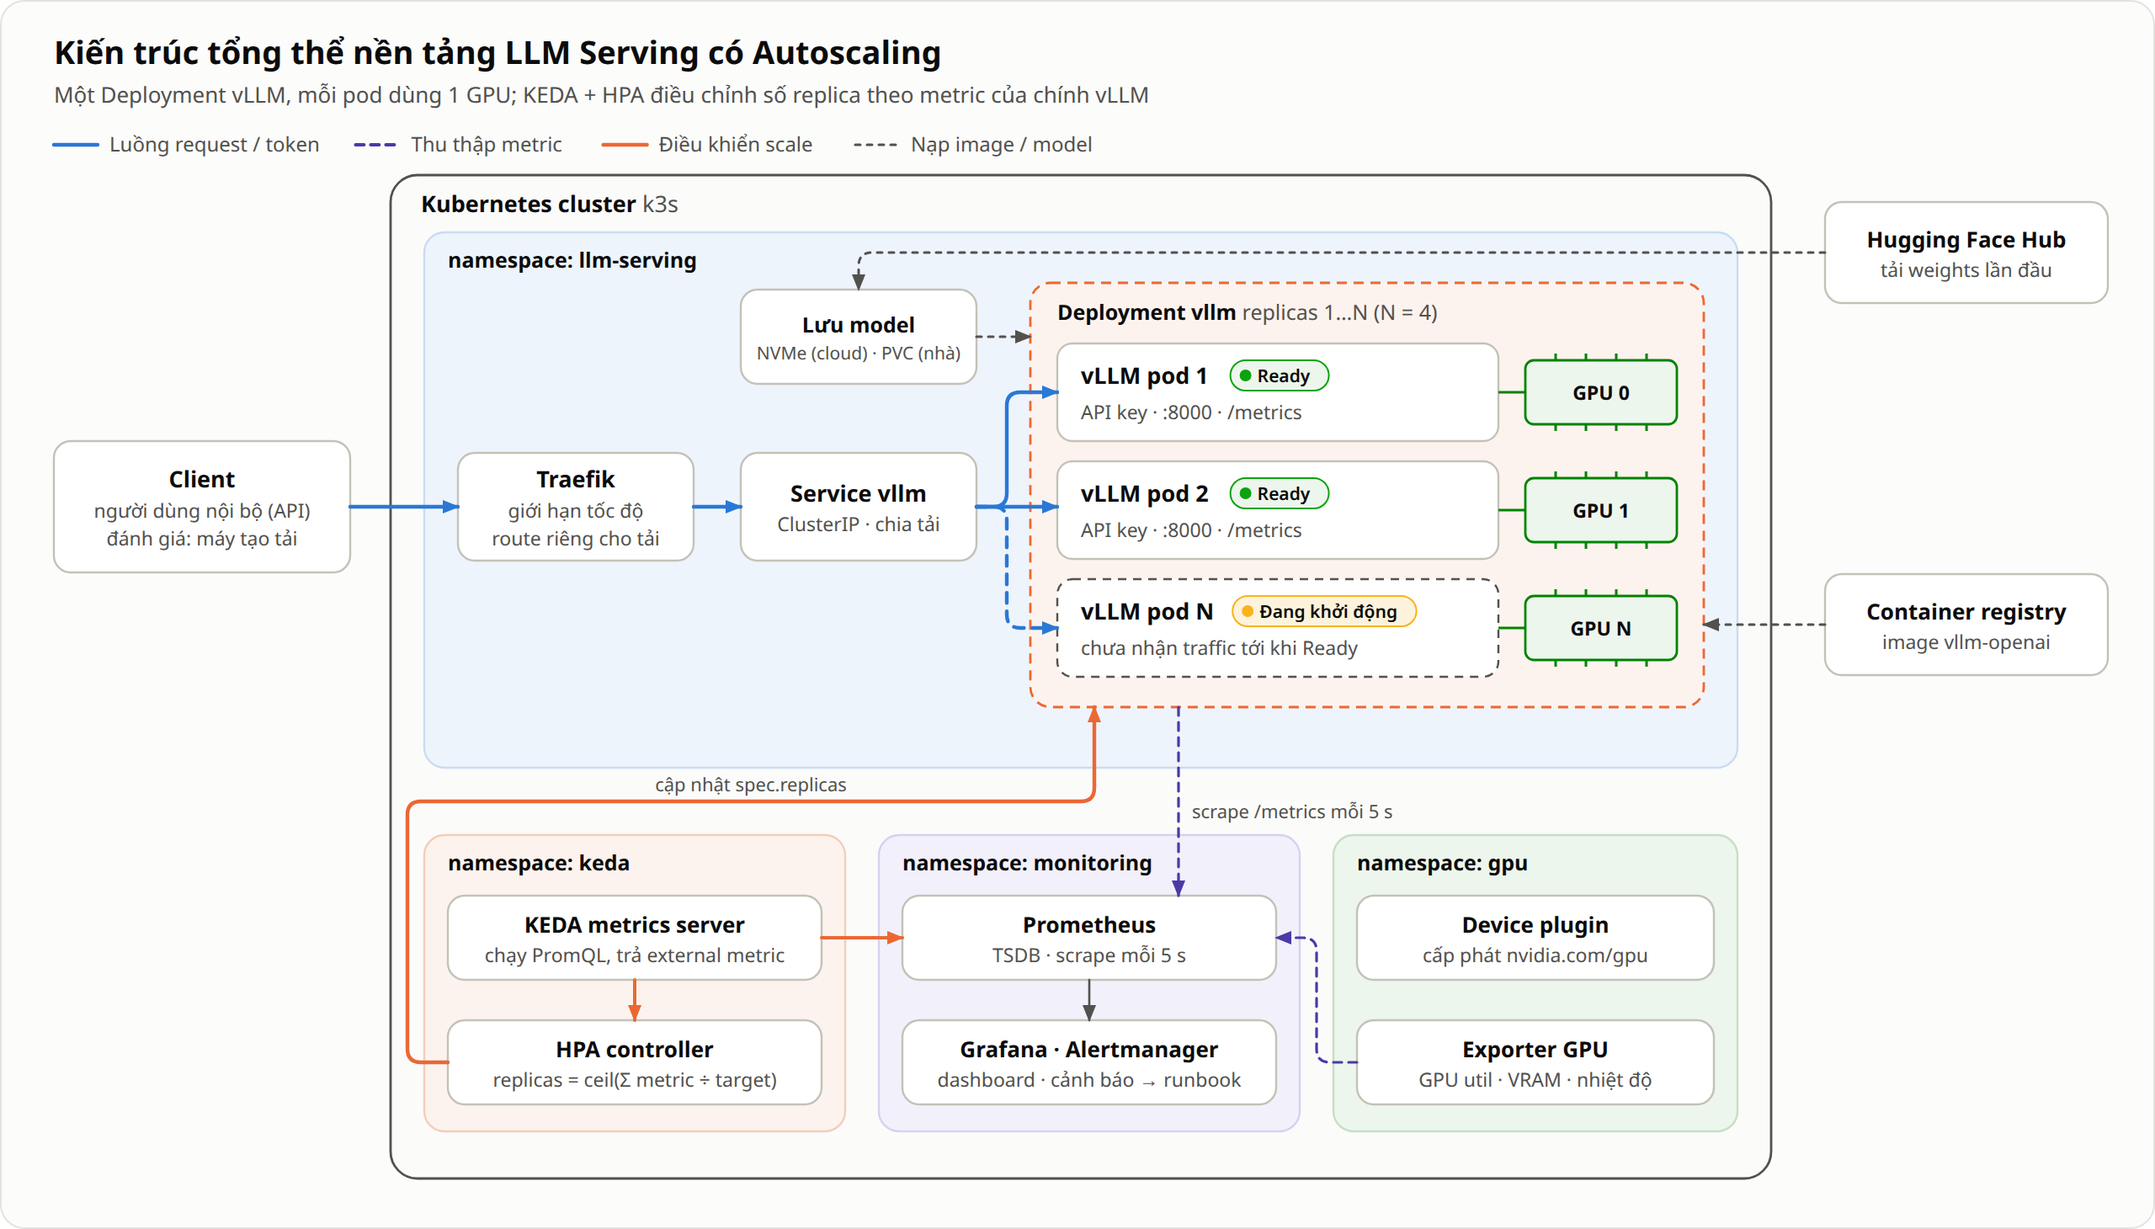
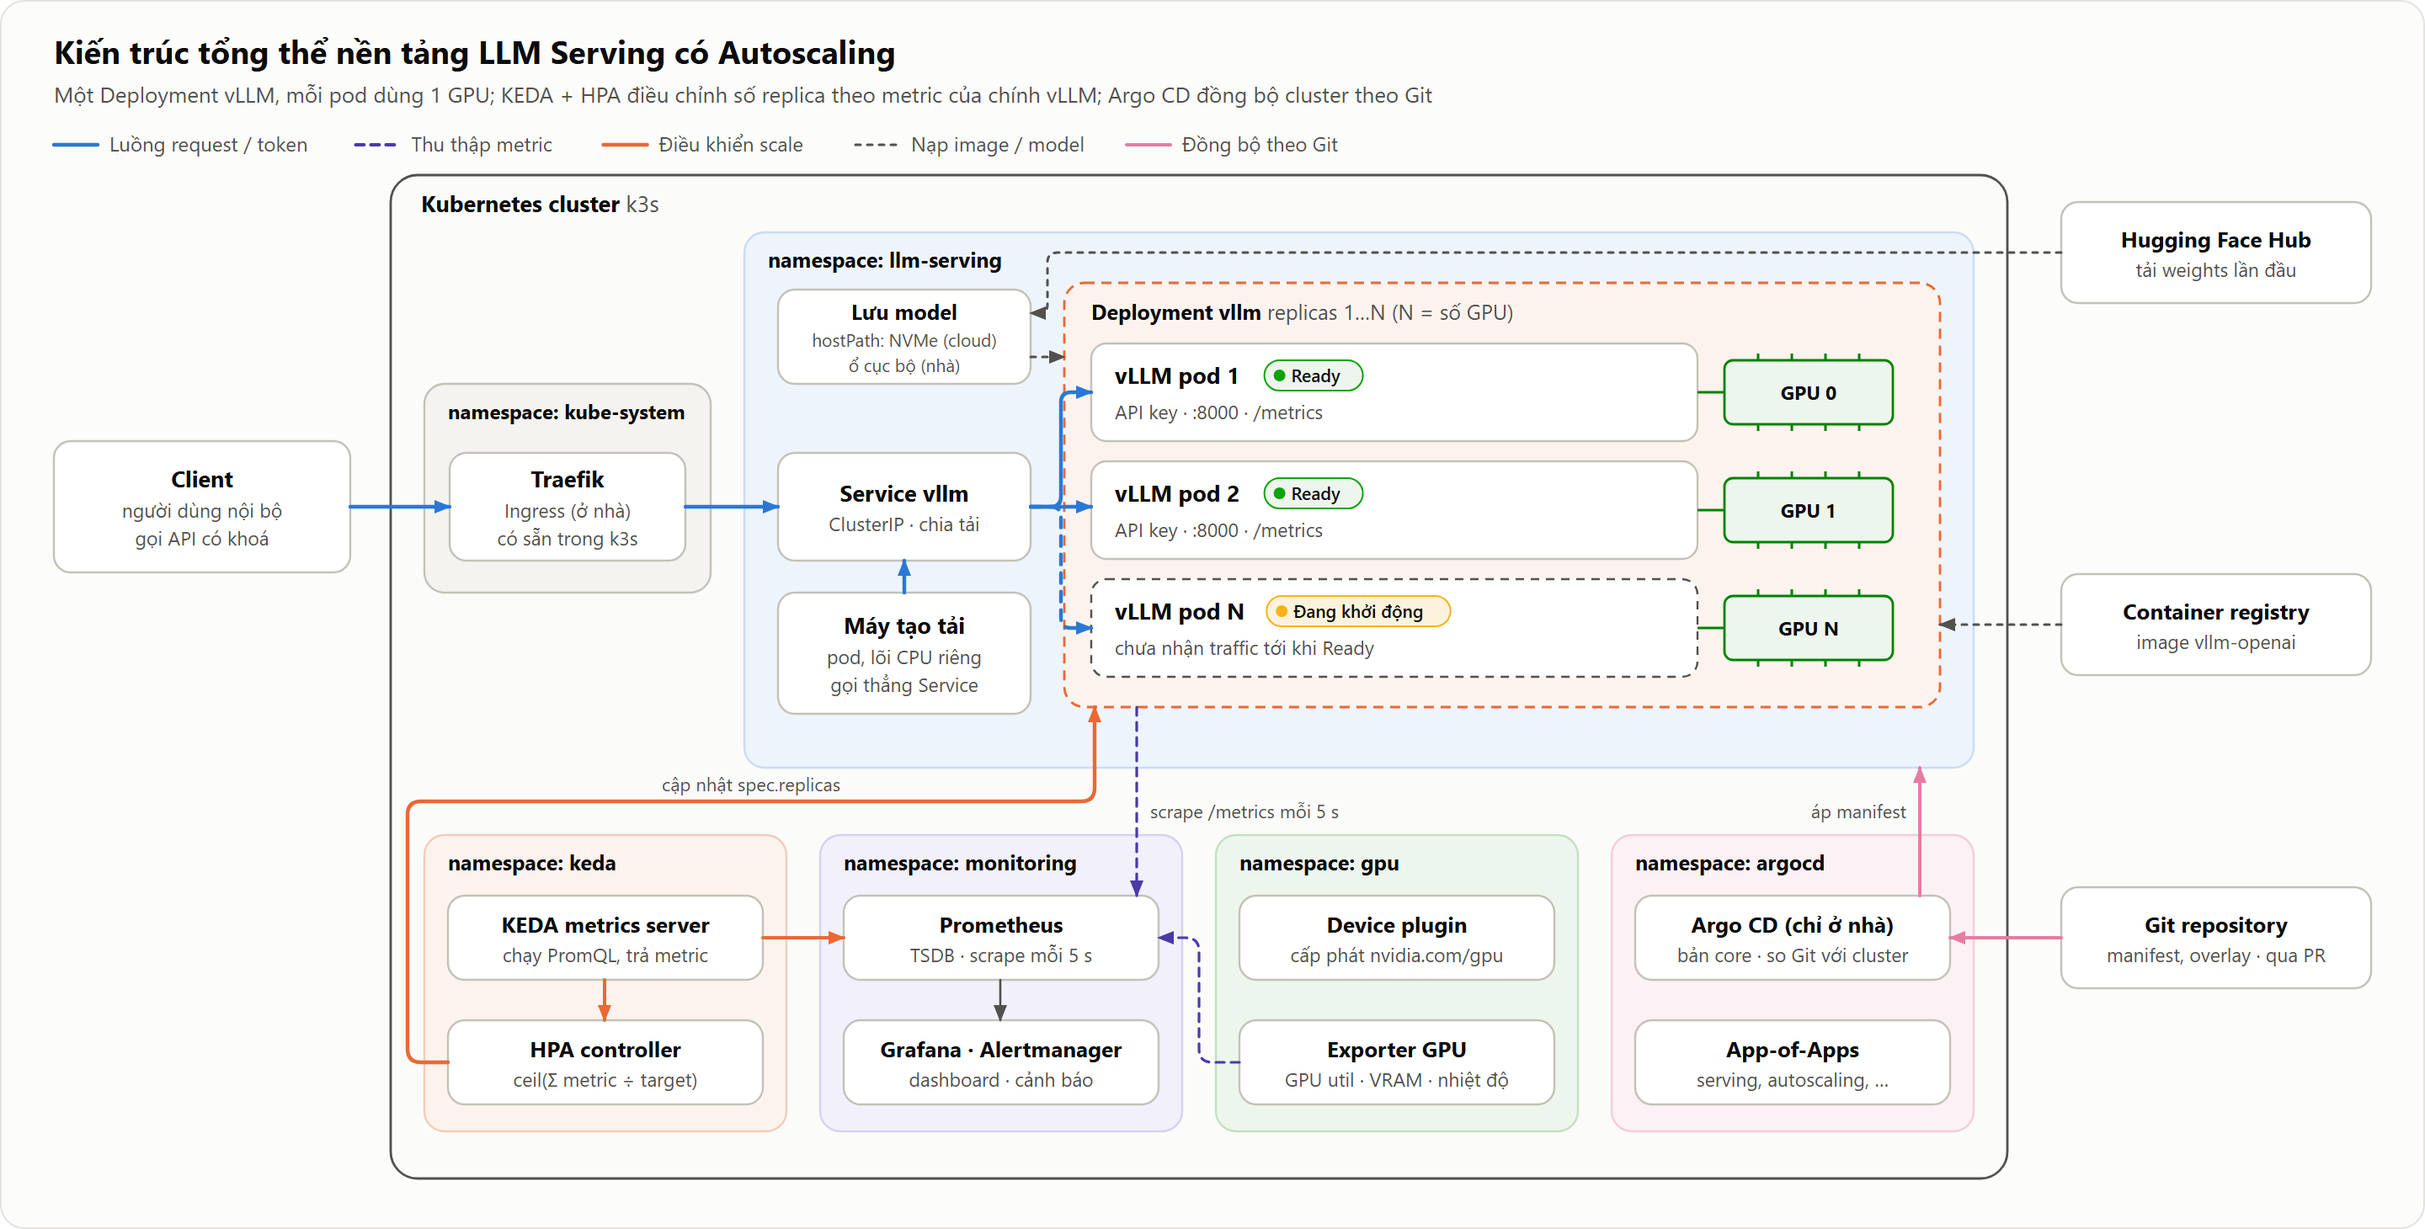
docs: redraw figure 2 for the current design: Traefik in kube-system without rate limit, load generator calling the Service, Argo CD and Git (TR8)

diff --git a/docs/diagrams/build_diagrams.py b/docs/diagrams/build_diagrams.py
@@ -306,81 +306,97 @@ def fig_tradeoff():
 # Hình 2 — Kiến trúc tổng thể
 # ======================================================================
 def fig_architecture():
-    W, H = 1280, 730
-    s = Svg(W, H, "Kiến trúc tổng thể: client gửi request qua Traefik và Service tới các pod vLLM "
-                  "(mỗi pod 1 GPU, kiểm API key); Prometheus thu metric, Alertmanager gửi cảnh báo; "
-                  "KEDA và HPA điều chỉnh số replica")
+    W, H = 1440, 730
+    s = Svg(W, H, "Kiến trúc tổng thể: người dùng gọi API qua Traefik, máy tạo tải gọi thẳng Service, "
+                  "Service chia request cho các pod vLLM (mỗi pod 1 GPU, kiểm API key); Prometheus thu metric, "
+                  "Alertmanager gửi cảnh báo; KEDA và HPA điều chỉnh số replica; Argo CD đồng bộ cluster theo Git")
     s.header("Kiến trúc tổng thể nền tảng LLM Serving có Autoscaling",
-             "Một Deployment vLLM, mỗi pod dùng 1 GPU; KEDA + HPA điều chỉnh số replica theo metric của chính vLLM")
+             "Một Deployment vLLM, mỗi pod dùng 1 GPU; KEDA + HPA điều chỉnh số replica theo metric của chính vLLM; "
+             "Argo CD đồng bộ cluster theo Git")
     x = 32
     x = s.legend_line(x, 86, "Luồng request / token", BLUE, sw=2.2)
     x = s.legend_line(x, 86, "Thu thập metric", VIOLET, dash="5 4")
     x = s.legend_line(x, 86, "Điều khiển scale", ORANGE, sw=2.2)
-    s.legend_line(x, 86, "Nạp image / model", INK2, dash="3 4", sw=1.5)
+    x = s.legend_line(x, 86, "Nạp image / model", INK2, dash="3 4", sw=1.5)
+    s.legend_line(x, 86, "Đồng bộ theo Git", MAGENTA, sw=2)
 
     # cụm Kubernetes
-    s.rect(232, 104, 820, 596, fill="#fbfbfa", stroke=INK2, sw=1.4, rx=16)
+    s.rect(232, 104, 960, 596, fill="#fbfbfa", stroke=INK2, sw=1.4, rx=16)
     s.rich(250, 126, [("Kubernetes cluster", 700, INK), ("  k3s", 400, INK2)], size=13.5)
 
-    # namespace llm-serving
-    s.group(252, 138, 780, 318, "namespace: llm-serving", fill=BLUE_T, stroke="#c9dcf3")
-    s.box(272, 269, 140, 64, "Traefik", ["giới hạn tốc độ", "route riêng cho tải"])
-    s.box(440, 269, 140, 64, "Service vllm", ["ClusterIP · chia tải"])
-    s.box(440, 172, 140, 56, "Lưu model", ["NVMe (cloud) · PVC (nhà)"], tsize=12.5, lsize=10.5)
+    # namespace kube-system: Traefik có sẵn trong k3s; Ingress llm.home chỉ có ở overlay nhà.
+    # Rate limit và route riêng cho máy tạo tải đã lược ngày 12/11 (ADR-006 §3.1).
+    s.group(252, 228, 170, 124, "namespace: kube-system", fill=GRAY_T, stroke=AXIS, tsize=12)
+    s.box(267, 269, 140, 64, "Traefik", ["Ingress (ở nhà)", "có sẵn trong k3s"])
 
-    s.rect(612, 168, 400, 252, fill=ORANGE_T, stroke=ORANGE, sw=1.4, dash="6 4", rx=12)
-    s.rich(628, 190, [("Deployment vllm", 650, INK), ("  replicas 1…N (N = 4)", 400, INK2)], size=12.5)
+    # namespace llm-serving
+    s.group(442, 138, 730, 318, "namespace: llm-serving", fill=BLUE_T, stroke="#c9dcf3")
+    s.box(462, 172, 150, 56, "Lưu model", ["hostPath: NVMe (cloud)", "ổ cục bộ (nhà)"], tsize=12.5, lsize=10.5)
+    s.box(462, 269, 150, 64, "Service vllm", ["ClusterIP · chia tải"])
+    s.box(462, 352, 150, 72, "Máy tạo tải", ["pod, lõi CPU riêng", "gọi thẳng Service"])
+
+    s.rect(632, 168, 520, 252, fill=ORANGE_T, stroke=ORANGE, sw=1.4, dash="6 4", rx=12)
+    s.rich(648, 190, [("Deployment vllm", 650, INK), ("  replicas 1…N (N = số GPU)", 400, INK2)], size=12.5)
     pods = [("vLLM pod 1", "Ready", "API key · :8000 · /metrics"),
             ("vLLM pod 2", "Ready", "API key · :8000 · /metrics"),
             ("vLLM pod N", "Đang khởi động", "chưa nhận traffic tới khi Ready")]
     for k, (name, st, sub) in enumerate(pods):
         py = 204 + k * 70
-        s.rect(628, py, 262, 58, fill=WHITE, stroke=AXIS if k < 2 else INK2, dash=None if k < 2 else "5 4", rx=9)
-        s.text(642, py + 24, name, size=13.5, weight=650)
+        s.rect(648, py, 360, 58, fill=WHITE, stroke=AXIS if k < 2 else INK2, dash=None if k < 2 else "5 4", rx=9)
+        s.text(662, py + 24, name, size=13.5, weight=650)
         if k < 2:
-            s.status_pill(642 + text_width(name, 13.5, 650) + 10, py + 10, st, GOOD, GREEN_T)
+            s.status_pill(662 + text_width(name, 13.5, 650) + 10, py + 10, st, GOOD, GREEN_T)
         else:
-            s.status_pill(642 + text_width(name, 13.5, 650) + 10, py + 10, st, WARN, YELLOW_T)
-        s.text(642, py + 45, sub, size=11.5, fill=INK2)
-        s.line(890, py + 29, 906, py + 29, stroke=GREEN, sw=1.5)
-        s.gpu_chip(906, py + 10, 90, 38, f"GPU {k if k < 2 else 'N'}")
+            s.status_pill(662 + text_width(name, 13.5, 650) + 10, py + 10, st, WARN, YELLOW_T)
+        s.text(662, py + 45, sub, size=11.5, fill=INK2)
+        s.line(1008, py + 29, 1024, py + 29, stroke=GREEN, sw=1.5)
+        s.gpu_chip(1024, py + 10, 100, 38, f"GPU {k if k < 2 else 'N'}")
 
-    # dải dưới: keda / monitoring / gpu-operator
-    s.group(252, 496, 250, 176, "namespace: keda", fill=ORANGE_T, stroke="#f3cdb9")
-    s.box(266, 532, 222, 50, "KEDA metrics server", ["chạy PromQL, trả external metric"], tsize=13)
-    s.box(266, 606, 222, 50, "HPA controller", ["replicas = ceil(Σ metric ÷ target)"], tsize=13)
-    s.group(522, 496, 250, 176, "namespace: monitoring", fill=VIOLET_T, stroke="#d6d1ef")
-    s.box(536, 532, 222, 50, "Prometheus", ["TSDB · scrape mỗi 5 s"], tsize=13)
-    s.box(536, 606, 222, 50, "Grafana · Alertmanager", ["dashboard · cảnh báo → runbook"], tsize=13)
-    s.group(792, 496, 240, 176, "namespace: gpu", fill=GREEN_T, stroke="#c4dfc4")
-    s.box(806, 532, 212, 50, "Device plugin", ["cấp phát nvidia.com/gpu"], tsize=13)
-    s.box(806, 606, 212, 50, "Exporter GPU", ["GPU util · VRAM · nhiệt độ"], tsize=13)
+    # dải dưới: keda / monitoring / gpu / argocd
+    s.group(252, 496, 215, 176, "namespace: keda", fill=ORANGE_T, stroke="#f3cdb9")
+    s.box(266, 532, 187, 50, "KEDA metrics server", ["chạy PromQL, trả metric"], tsize=13)
+    s.box(266, 606, 187, 50, "HPA controller", ["ceil(Σ metric ÷ target)"], tsize=13)
+    s.group(487, 496, 215, 176, "namespace: monitoring", fill=VIOLET_T, stroke="#d6d1ef")
+    s.box(501, 532, 187, 50, "Prometheus", ["TSDB · scrape mỗi 5 s"], tsize=13)
+    s.box(501, 606, 187, 50, "Grafana · Alertmanager", ["dashboard · cảnh báo"], tsize=13)
+    s.group(722, 496, 215, 176, "namespace: gpu", fill=GREEN_T, stroke="#c4dfc4")
+    s.box(736, 532, 187, 50, "Device plugin", ["cấp phát nvidia.com/gpu"], tsize=13)
+    s.box(736, 606, 187, 50, "Exporter GPU", ["GPU util · VRAM · nhiệt độ"], tsize=13)
+    s.group(957, 496, 215, 176, "namespace: argocd", fill="#fcf1f5", stroke="#f2cddc")
+    s.box(971, 532, 187, 50, "Argo CD (chỉ ở nhà)", ["bản core · so Git với cluster"], tsize=13)
+    s.box(971, 606, 187, 50, "App-of-Apps", ["serving, autoscaling, …"], tsize=13)
 
     # ngoài cụm
-    s.box(32, 262, 176, 78, "Client", ["người dùng nội bộ (API)", "đánh giá: máy tạo tải"])
-    s.box(1084, 120, 168, 60, "Hugging Face Hub", ["tải weights lần đầu"], tsize=13)
-    s.box(1084, 341, 168, 60, "Container registry", ["image vllm-openai"], tsize=13)
+    s.box(32, 262, 176, 78, "Client", ["người dùng nội bộ", "gọi API có khoá"])
+    s.box(1224, 120, 184, 60, "Hugging Face Hub", ["tải weights lần đầu"], tsize=13)
+    s.box(1224, 341, 184, 60, "Container registry", ["image vllm-openai"], tsize=13)
+    s.box(1224, 527, 184, 60, "Git repository", ["manifest, overlay · qua PR"], tsize=13)
 
-    # luồng request
-    s.arrow([(208, 301), (272, 301)], BLUE, sw=2.2)
-    s.arrow([(412, 301), (440, 301)], BLUE, sw=2.2)
-    s.arrow([(580, 301), (598, 301), (598, 233), (628, 233)], BLUE, sw=2.2)
-    s.arrow([(580, 301), (628, 301)], BLUE, sw=2.2)
-    s.arrow([(580, 301), (598, 301), (598, 373), (628, 373)], BLUE, sw=2.2, dash="6 5")
+    # luồng request: người dùng qua Traefik; máy tạo tải gọi thẳng Service
+    s.arrow([(208, 301), (267, 301)], BLUE, sw=2.2)
+    s.arrow([(407, 301), (462, 301)], BLUE, sw=2.2)
+    s.arrow([(537, 352), (537, 333)], BLUE, sw=2.2)
+    s.arrow([(612, 301), (630, 301), (630, 233), (648, 233)], BLUE, sw=2.2, r=6)
+    s.arrow([(612, 301), (648, 301)], BLUE, sw=2.2)
+    s.arrow([(612, 301), (630, 301), (630, 373), (648, 373)], BLUE, sw=2.2, dash="6 5", r=6)
     # nạp image / model
-    s.arrow([(1084, 150), (510, 150), (510, 172)], INK2, sw=1.5, dash="3 4")
-    s.arrow([(580, 200), (612, 200)], INK2, sw=1.5, dash="3 4")
-    s.arrow([(1084, 371), (1012, 371)], INK2, sw=1.5, dash="3 4")
+    s.arrow([(1224, 150), (622, 150), (622, 186), (612, 186)], INK2, sw=1.5, dash="3 4", r=6)
+    s.arrow([(612, 212), (632, 212)], INK2, sw=1.5, dash="3 4")
+    s.arrow([(1224, 371), (1152, 371)], INK2, sw=1.5, dash="3 4")
     # metric
-    s.arrow([(700, 420), (700, 532)], VIOLET, sw=1.6, dash="5 4")
-    s.label(708, 486, "scrape /metrics mỗi 5 s", anchor="start", bg="#fbfbfa")
-    s.arrow([(806, 631), (782, 631), (782, 557), (758, 557)], VIOLET, sw=1.6, dash="5 4")
-    s.arrow([(647, 582), (647, 606)], INK2, sw=1.3)
+    s.arrow([(675, 420), (675, 532)], VIOLET, sw=1.6, dash="5 4")
+    s.label(683, 486, "scrape /metrics mỗi 5 s", anchor="start", bg="#fbfbfa")
+    s.arrow([(736, 631), (712, 631), (712, 557), (688, 557)], VIOLET, sw=1.6, dash="5 4")
+    s.arrow([(594, 582), (594, 606)], INK2, sw=1.3)
     # điều khiển scale
-    s.arrow([(488, 557), (536, 557)], ORANGE, sw=2)
-    s.arrow([(377, 582), (377, 606)], ORANGE, sw=2)
+    s.arrow([(453, 557), (501, 557)], ORANGE, sw=2)
+    s.arrow([(359, 582), (359, 606)], ORANGE, sw=2)
     s.arrow([(266, 631), (242, 631), (242, 476), (650, 476), (650, 420)], ORANGE, sw=2.2)
     s.text(446, 470, "cập nhật spec.replicas", size=11, fill=INK2, anchor="middle")
+    # GitOps: Argo CD kéo manifest từ Git rồi áp vào cluster (VM thuê dùng make cloud-platform)
+    s.arrow([(1224, 557), (1158, 557)], MAGENTA, sw=2)
+    s.arrow([(1140, 532), (1140, 456)], MAGENTA, sw=2)
+    s.label(1132, 486, "áp manifest", anchor="end", bg="#fbfbfa")
     s.save("02-kien-truc-tong-the.svg")
 
 

diff --git a/docs/chi-tiet/03-kien-truc-autoscaling.md b/docs/chi-tiet/03-kien-truc-autoscaling.md
@@ -28,14 +28,14 @@
 
 ![Hình 2 – Kiến trúc tổng thể](../images/02-kien-truc-tong-the.svg)
 
-*Hình 2. Kiến trúc tổng thể. Request đi từ client qua Traefik (giới hạn tốc độ: đã lược ngày 12/11, [ADR-006 §3.1](../adr/006-chot-may-model-va-kich-ban-truoc-v2.md#31-quyết-định-ngày-12112026)) và Service tới các pod vLLM (kiểm API key), mỗi pod gắn một GPU. Prometheus thu metric từ vLLM và exporter GPU; Alertmanager gửi cảnh báo. KEDA chạy PromQL và cung cấp external metric cho HPA; HPA cập nhật `spec.replicas` của Deployment. Pod mới chỉ nhận traffic sau khi đã Ready.*
+*Hình 2. Kiến trúc tổng thể. Người dùng gọi API qua Traefik (Ingress `llm.home`, chỉ có ở overlay nhà); máy tạo tải là pod trong `llm-serving` và gọi thẳng Service. Giới hạn tốc độ và route riêng cho máy tạo tải đã lược ngày 12/11 ([ADR-006 §3.1](../adr/006-chot-may-model-va-kich-ban-truoc-v2.md#31-quyết-định-ngày-12112026)). Service chia request cho các pod vLLM (kiểm API key), mỗi pod gắn một GPU. Prometheus thu metric từ vLLM và exporter GPU; Alertmanager gửi cảnh báo. KEDA chạy PromQL và cung cấp external metric cho HPA; HPA cập nhật `spec.replicas` của Deployment. Pod mới chỉ nhận traffic sau khi đã Ready. Ở nhà, Argo CD đồng bộ cluster theo Git (§18); VM thuê không chạy Argo CD mà dựng bằng `make cloud-platform`.*
 
 | Thành phần | Vai trò | Ghi chú |
 |---|---|---|
 | Kubernetes (k3s) | Điều phối container | Một node trên VM thuê; 1–2 node ở nhà; dựng bằng Ansible |
 | NVIDIA device plugin, exporter GPU | Công bố `nvidia.com/gpu`; metric GPU | Driver cài sẵn trên máy; GPU Operator chỉ dùng nếu cần (`driver.enabled=false`) |
 | vLLM (Deployment) | Phục vụ model qua API OpenAI; kiểm API key | 1 GPU/pod; probe, preStop, `--shutdown-timeout`; rolling update `maxSurge: 0` |
-| Lưu trữ model | Lưu weights để không phải tải lại | NVMe cục bộ (VM thuê) hoặc PVC (nhà); Job prefetch, DaemonSet pre-pull |
+| Lưu trữ model | Lưu weights để không phải tải lại | `hostPath` trên NVMe (VM thuê) hoặc `/var/lib/llm-cache` (nhà) (§3.3); role Ansible `cloud-prefetch` tải sẵn model và image trên VM thuê (§4) |
 | Traefik (Ingress) | Điểm vào; giới hạn tốc độ đã lược ngày 12/11 ([ADR-006 §3.1](../adr/006-chot-may-model-va-kich-ban-truoc-v2.md#31-quyết-định-ngày-12112026)) | Có sẵn trong k3s; không dùng ingress-nginx (đã ngừng bảo trì từ 3/2026); bật metric |
 | KEDA | Chuyển metric Prometheus thành external metric, tạo HPA | A2 là cấu hình chính thức |
 | Prometheus, Alertmanager (kube-prometheus-stack) | Thu metric, tính SLI, gửi cảnh báo | Recording rule; cảnh báo theo burn rate tới Telegram |

diff --git a/docs/nhat-ky/lam-viec/trinh/tuan-08.md b/docs/nhat-ky/lam-viec/trinh/tuan-08.md
@@ -133,3 +133,12 @@
 - **Results:** `/code-review high` trên diff: 5 điểm nhỏ (§3.5 và §9 nói khác nhau về chỗ ghi việc dùng AI; quy tắc "kết quả cụ thể có số" của Tóm tắt chưa chuyển sang mục 1.3; §1 chưa ghi chỗ đặt đoạn khai báo nếu được yêu cầu; "khuôn T" ở §5.1 chưa có link; thiếu dòng Thesis), đã sửa cả 5.
 - **Links:** `docs/luan-van/quy-tac-viet.md` (§1, §3.5, §9); `docs/chi-tiet/06-ke-hoach-quan-ly.md` (§5.1, §11.1).
 - **Thesis:** phần đầu quyển (không có Tóm tắt, không có Lời cam đoan); Mở đầu; mục 1.3 Đóng góp.
+
+## 2026-11-27 – Vẽ lại Hình 2 (kiến trúc tổng thể) theo thiết kế hiện hành
+
+- **Task:** TR8 · **Environment:** none
+- **Done:** viết lại `fig_architecture()` trong `docs/diagrams/build_diagrams.py` (chỉ chạy hàm này, không sinh lại các hình khác), xuất SVG và PNG 2x bằng Chrome headless như `export_png.sh`. Đối chiếu với Kiến trúc §2–§5, §18.1, ADR-006 §3.1, Môi trường §3.6, Thông số §7 và manifest `envs/home/serving/`. Sửa chú thích Hình 2 ở `03-kien-truc-autoscaling.md` và `mo-ta-chi-tiet-do-an.md`; sửa dòng "Lưu trữ model" của bảng thành phần (§2) từ "PVC (nhà); Job prefetch, DaemonSet pre-pull" thành `hostPath` ở cả hai môi trường và role Ansible `cloud-prefetch`, đúng như §3.3 và §4.
+- **Decision:** Traefik tách sang nhóm `kube-system` (đúng bảng namespace §2), bỏ dòng "giới hạn tốc độ, route riêng cho tải"; máy tạo tải là pod trong `llm-serving` gọi thẳng Service; thêm nhóm `argocd` (ghi "chỉ ở nhà") và hộp Git repository, mũi tên "áp manifest"; số replica ghi "N = số GPU" thay cho "N = 4" vì ở nhà N = 2. Không thêm hộp Telegram để hình không quá dày; chú thích và §17 đã nói cảnh báo đi Telegram.
+- **Results:** `lychee --offline --include-fragments` trên hai file đã sửa: 0 lỗi; `yamllint -s .` đạt. Canvas đổi từ 1280 × 730 sang 1440 × 730.
+- **Links:** nhánh `docs/tr8-fig2-architecture`; `docs/images/02-kien-truc-tong-the.{svg,png}`.
+- **Thesis:** hình kiến trúc cho 3.2 (chèn vào PR chương 3 sau khi PR này merge).

diff --git a/docs/mo-ta-chi-tiet-do-an.md b/docs/mo-ta-chi-tiet-do-an.md
@@ -96,7 +96,7 @@ Kết quả của đồ án được tổng hợp thành một **bảng nghiệm
 
 ![Hình 2 – Kiến trúc tổng thể](images/02-kien-truc-tong-the.svg)
 
-*Hình 2. Kiến trúc tổng thể. Request đi từ client qua Traefik (giới hạn tốc độ) và Service tới các pod vLLM (kiểm API key), mỗi pod gắn một GPU. Prometheus thu metric; KEDA chạy PromQL và cung cấp external metric cho HPA; HPA cập nhật số replica của Deployment.*
+*Hình 2. Kiến trúc tổng thể. Người dùng gọi API qua Traefik, còn máy tạo tải gọi thẳng Service; Service chia request cho các pod vLLM (kiểm API key), mỗi pod gắn một GPU. Prometheus thu metric; KEDA chạy PromQL và cung cấp external metric cho HPA; HPA cập nhật số replica của Deployment. Argo CD đồng bộ cluster ở nhà theo Git.*
 
 ![Hình 4 – Vòng lặp autoscaling](images/04-vong-lap-autoscaling.svg)
 
